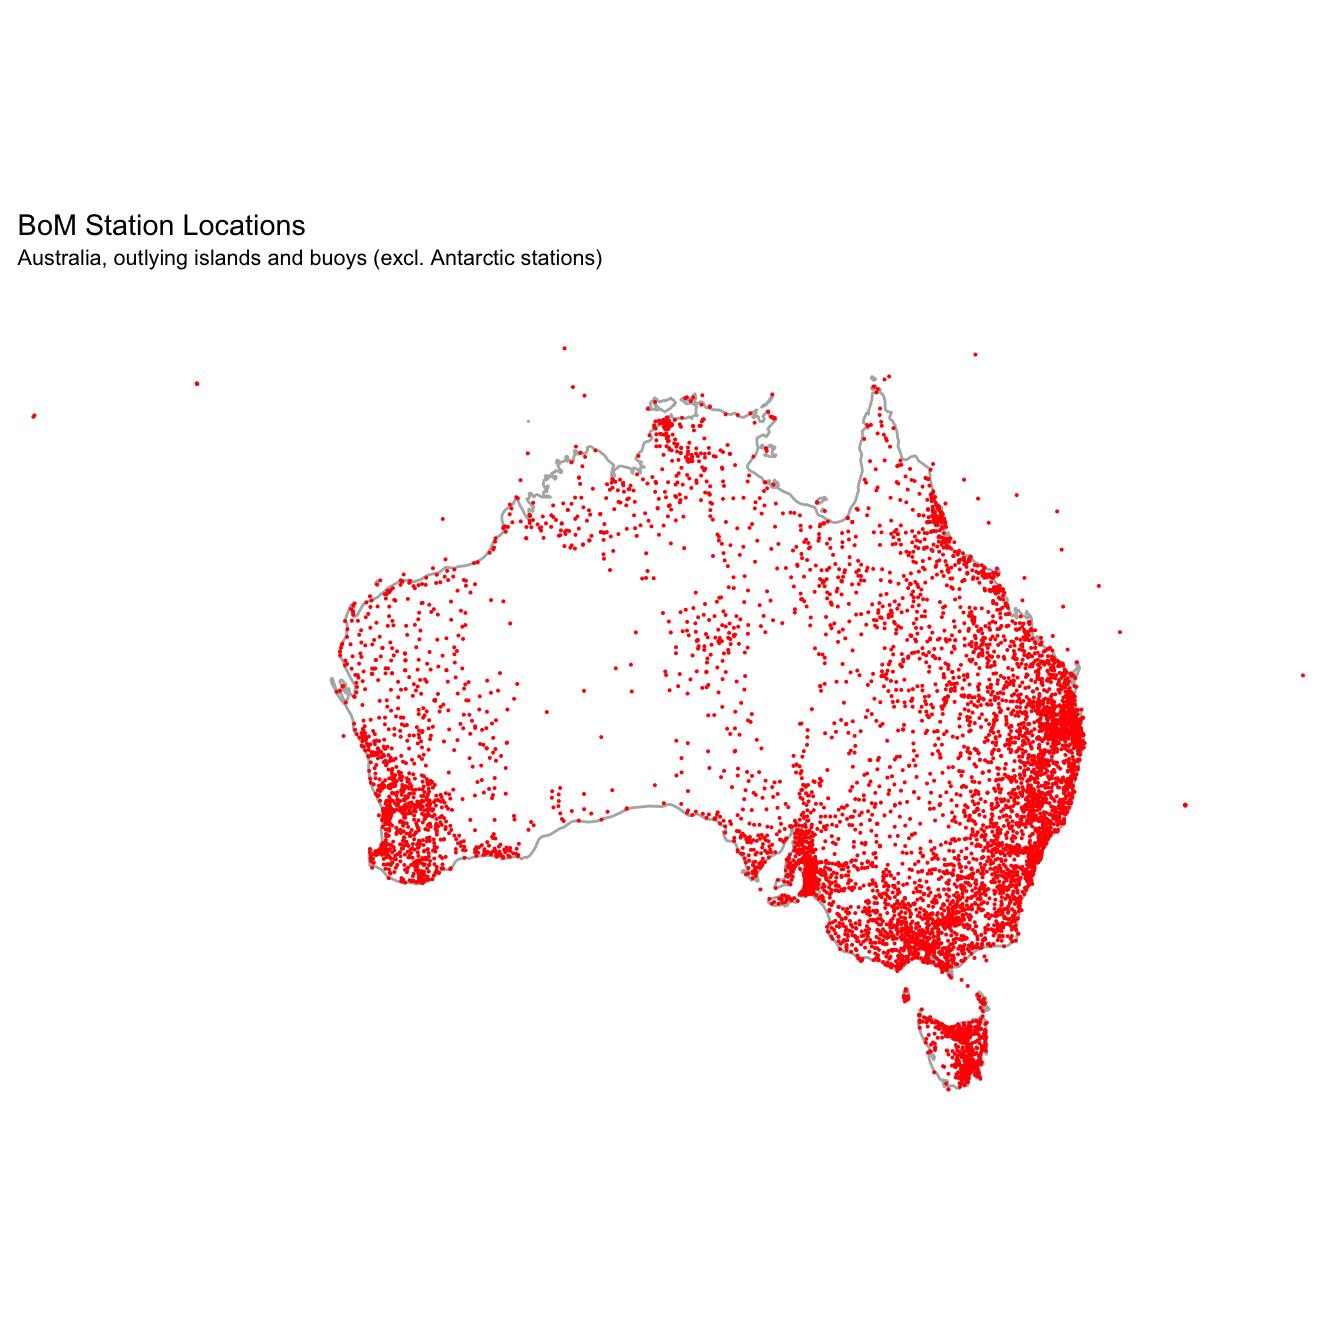
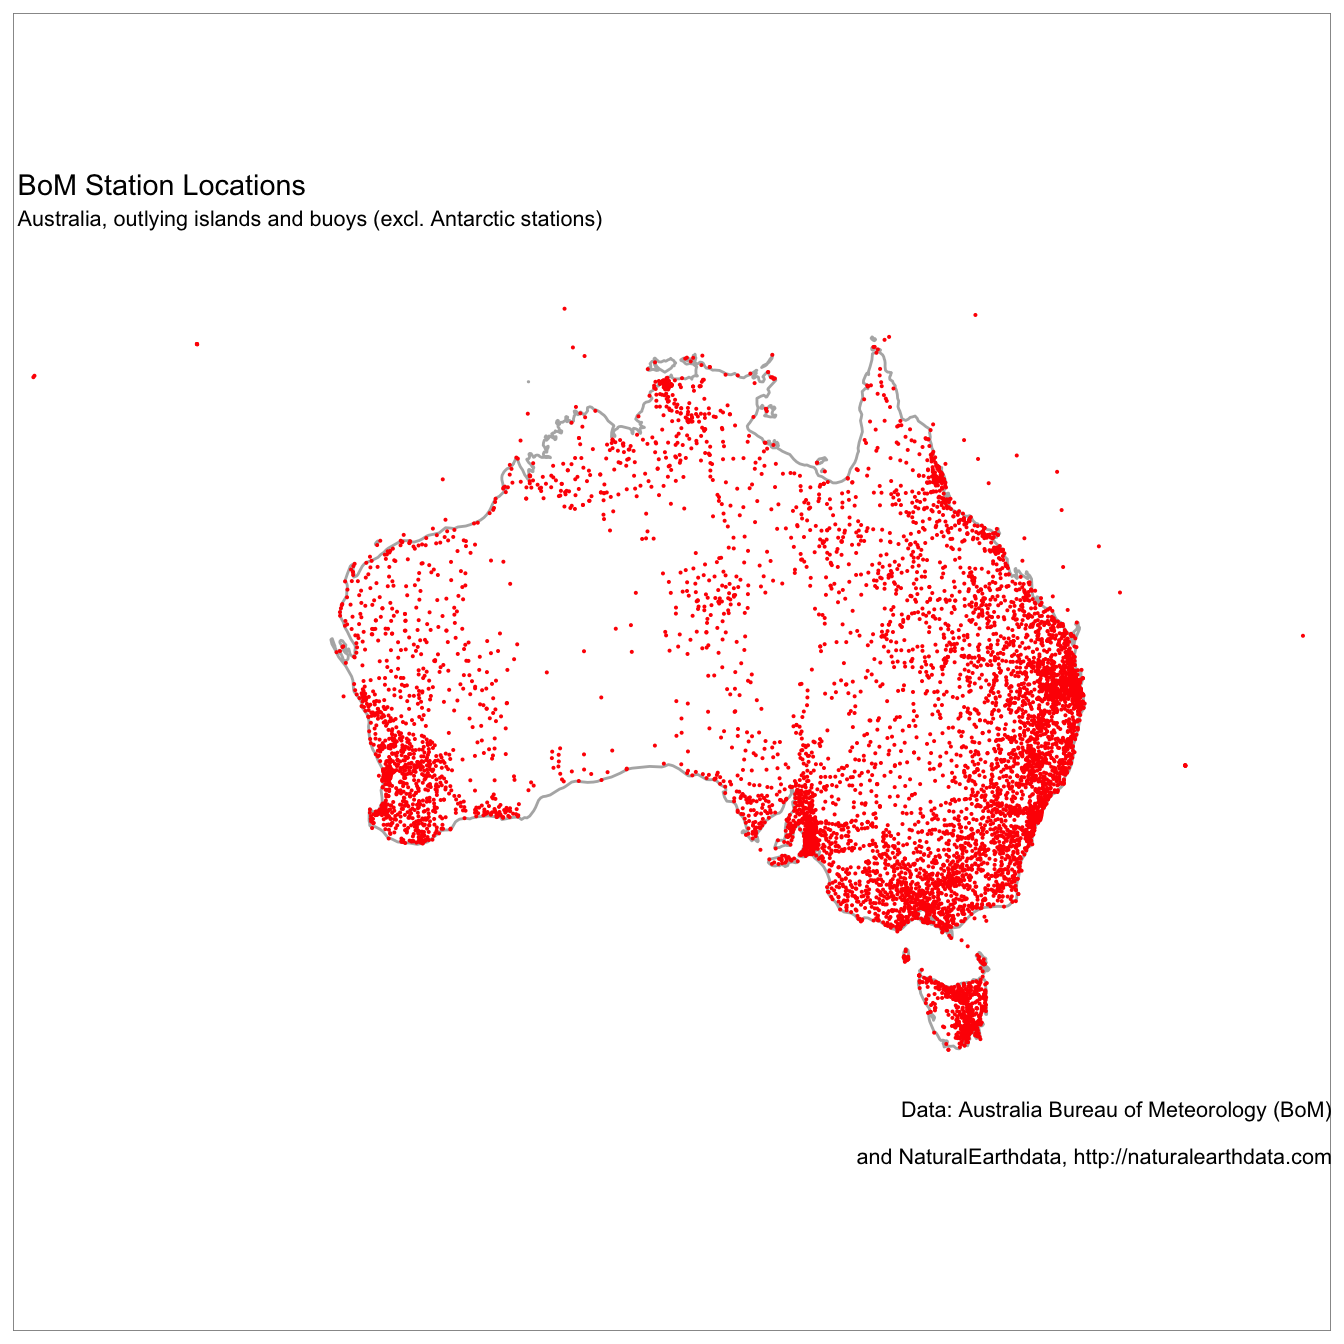
Update pkgdown site and suppress messages loading packages to build map

Changed region(s): [[0.25, 0.25, 1.0, 0.875], [0.0, 0.125, 0.4375, 0.2188]]

diff --git a/docs/articles/bomrang.html b/docs/articles/bomrang.html
@@ -1419,21 +1419,25 @@ Wind run (kilometres)
 <div class="sourceCode"><pre class="sourceCode r"><code class="sourceCode r"><span class="cf">if</span> (<span class="kw">requireNamespace</span>(<span class="st">"ggplot2"</span>, <span class="dt">quietly =</span> <span class="ot">TRUE</span>) <span class="op">&amp;&amp;</span>
 <span class="st">    </span><span class="kw">requireNamespace</span>(<span class="st">"ggthemes"</span>, <span class="dt">quietly =</span> <span class="ot">TRUE</span>) <span class="op">&amp;&amp;</span>
 <span class="st">    </span><span class="kw">requireNamespace</span>(<span class="st">"maps"</span>, <span class="dt">quietly =</span> <span class="ot">TRUE</span>) <span class="op">&amp;&amp;</span>
-<span class="st">    </span><span class="kw">requireNamespace</span>(<span class="st">"mapproj"</span>, <span class="dt">quietly =</span> <span class="ot">TRUE</span>)) {
+<span class="st">    </span><span class="kw">requireNamespace</span>(<span class="st">"mapproj"</span>, <span class="dt">quietly =</span> <span class="ot">TRUE</span>) <span class="op">&amp;&amp;</span>
+<span class="st">    </span><span class="kw">requireNamespace</span>(<span class="st">"gridExtra"</span>, <span class="dt">quietly =</span> <span class="ot">TRUE</span>) <span class="op">&amp;&amp;</span>
+<span class="st">    </span><span class="kw">requireNamespace</span>(<span class="st">"grid"</span>, <span class="dt">quietly =</span> <span class="ot">TRUE</span>)) {
   <span class="kw">library</span>(ggplot2)
   <span class="kw">library</span>(mapproj)
   <span class="kw">library</span>(ggthemes)
   <span class="kw">library</span>(maps)
   <span class="kw">library</span>(data.table)
+  <span class="kw">library</span>(grid)
+  <span class="kw">library</span>(gridExtra)
   <span class="kw">load</span>(<span class="kw">system.file</span>(<span class="st">"extdata"</span>, <span class="st">"stations_site_list.rda"</span>, <span class="dt">package =</span> <span class="st">"bomrang"</span>))
   <span class="kw"><a href="http://www.rdocumentation.org/packages/data.table/topics/setDT">setDT</a></span>(stations_site_list)
-
+  
   Aust_stations &lt;-<span class="st"> </span>
 <span class="st">    </span>stations_site_list[(<span class="op">!</span>(state <span class="op">%in%</span><span class="st"> </span><span class="kw">c</span>(<span class="st">"ANT"</span>, <span class="st">"null"</span>))) <span class="op">&amp;</span><span class="st"> </span><span class="op">!</span><span class="kw">grepl</span>(<span class="st">"VANUATU|HONIARA"</span>, name)]
   
   Aust_map &lt;-<span class="st"> </span><span class="kw"><a href="http://www.rdocumentation.org/packages/ggplot2/topics/map_data">map_data</a></span>(<span class="st">"world"</span>, <span class="dt">region =</span> <span class="st">"Australia"</span>)
   
-  <span class="kw"><a href="http://www.rdocumentation.org/packages/ggplot2/topics/ggplot">ggplot</a></span>(Aust_stations, <span class="kw"><a href="http://www.rdocumentation.org/packages/ggplot2/topics/aes">aes</a></span>(<span class="dt">x =</span> lon, <span class="dt">y =</span> lat)) <span class="op">+</span><span class="st"> </span>
+  BoM_stations &lt;-<span class="st"> </span><span class="kw"><a href="http://www.rdocumentation.org/packages/ggplot2/topics/ggplot">ggplot</a></span>(Aust_stations, <span class="kw"><a href="http://www.rdocumentation.org/packages/ggplot2/topics/aes">aes</a></span>(<span class="dt">x =</span> lon, <span class="dt">y =</span> lat)) <span class="op">+</span><span class="st"> </span>
 <span class="st">    </span><span class="kw"><a href="http://www.rdocumentation.org/packages/ggplot2/topics/geom_polygon">geom_polygon</a></span>(<span class="dt">data =</span> Aust_map, <span class="kw"><a href="http://www.rdocumentation.org/packages/ggplot2/topics/aes">aes</a></span>(<span class="dt">x =</span> long, <span class="dt">y =</span> lat, <span class="dt">group =</span> group), 
                  <span class="dt">color =</span> <span class="kw">grey</span>(<span class="fl">0.7</span>),
                  <span class="dt">fill =</span> <span class="ot">NA</span>) <span class="op">+</span>
@@ -1442,10 +1446,19 @@ Wind run (kilometres)
 <span class="st">    </span><span class="kw"><a href="http://www.rdocumentation.org/packages/ggplot2/topics/coord_map">coord_map</a></span>(<span class="dt">ylim =</span> <span class="kw">c</span>(<span class="op">-</span><span class="dv">45</span>, <span class="op">-</span><span class="dv">5</span>),
               <span class="dt">xlim =</span> <span class="kw">c</span>(<span class="dv">96</span>, <span class="dv">167</span>)) <span class="op">+</span>
 <span class="st">    </span><span class="kw"><a href="http://www.rdocumentation.org/packages/ggthemes/topics/theme_map">theme_map</a></span>() <span class="op">+</span><span class="st"> </span>
-<span class="st">    </span><span class="kw"><a href="http://www.rdocumentation.org/packages/ggplot2/topics/labs">ggtitle</a></span>(<span class="st">"BoM Station Locations"</span>,
-            <span class="dt">subtitle =</span> <span class="st">"Australia, outlying islands and buoys (excl. Antarctic stations)"</span>)
+<span class="st">    </span><span class="kw"><a href="http://www.rdocumentation.org/packages/ggplot2/topics/labs">labs</a></span>(<span class="dt">title =</span> <span class="st">"BoM Station Locations"</span>,
+         <span class="dt">subtitle =</span> <span class="st">"Australia, outlying islands and buoys (excl. Antarctic stations)"</span>,
+         <span class="dt">caption =</span> <span class="st">"Data: Australia Bureau of Meteorology (BoM)</span><span class="ch">\n</span>
+<span class="st">         and NaturalEarthdata, http://naturalearthdata.com"</span>)
+  
+  <span class="co"># Using the gridExtra and grid packages add a neatline to the map</span>
+  <span class="kw"><a href="http://www.rdocumentation.org/packages/gridExtra/topics/arrangeGrob">grid.arrange</a></span>(BoM_stations, <span class="dt">ncol =</span> <span class="dv">1</span>)
+  <span class="kw"><a href="http://www.rdocumentation.org/packages/grid/topics/grid.rect">grid.rect</a></span>(<span class="dt">width =</span> <span class="fl">0.98</span>, 
+            <span class="dt">height =</span> <span class="fl">0.98</span>, 
+            <span class="dt">gp =</span> grid<span class="op">::</span><span class="kw"><a href="http://www.rdocumentation.org/packages/grid/topics/gpar">gpar</a></span>(<span class="dt">lwd =</span> <span class="fl">0.25</span>, 
+                            <span class="dt">col =</span> <span class="st">"black"</span>,
+                            <span class="dt">fill =</span> <span class="ot">NA</span>))
 }</code></pre></div>
-<pre><code>## Loading required package: maps</code></pre>
 <p><img src="bomrang_files/figure-html/station-locations-map-1.png" width="672"></p>
 </div>
 </div>
